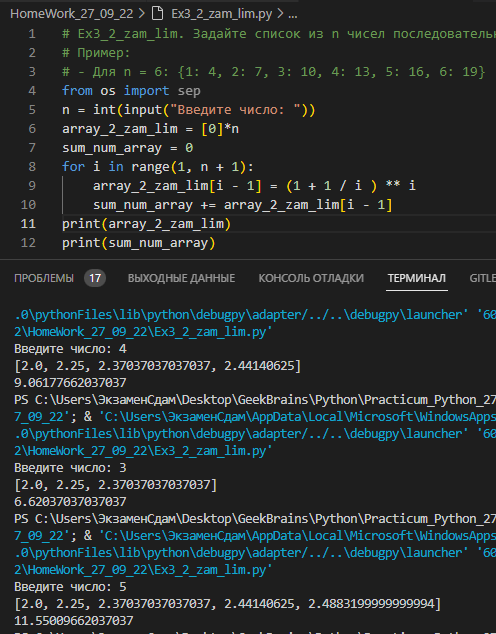
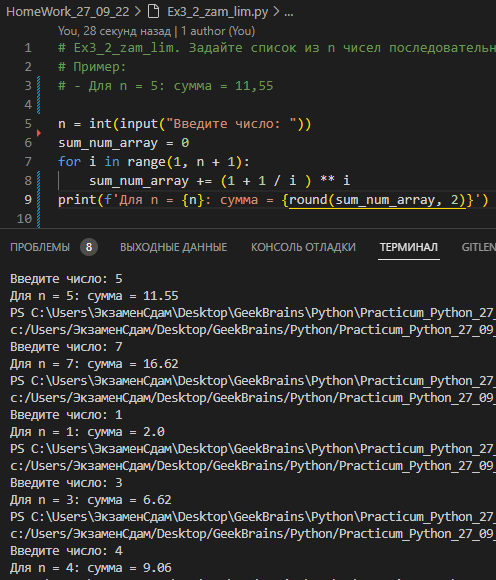
add Ex3

diff --git a/HomeWork_27_09_22/Ex3_2_zam_lim.py b/HomeWork_27_09_22/Ex3_2_zam_lim.py
@@ -1,12 +1,21 @@
 # Ex3_2_zam_lim. Задайте список из n чисел последовательности $(1+\frac 1 n)^n$ и выведите на экран их сумму.
 # Пример:
-# - Для n = 6: {1: 4, 2: 7, 3: 10, 4: 13, 5: 16, 6: 19}
-from os import sep
+# - Для n = 5: сумма = 11,55
+
 n = int(input("Введите число: "))
-array_2_zam_lim = [0]*n
 sum_num_array = 0
 for i in range(1, n + 1):
-    array_2_zam_lim[i - 1] = (1 + 1 / i ) ** i
-    sum_num_array += array_2_zam_lim[i - 1]
-print(array_2_zam_lim)
-print(sum_num_array)
+    sum_num_array += (1 + 1 / i ) ** i
+print(f'Для n = {n}: сумма = {round(sum_num_array, 2)}')
+
+
+
+# n = int(input("Введите число: "))
+# array_2_zam_lim = [0]*n
+# sum_num_array = 0
+# for i in range(1, n + 1):
+#     array_2_zam_lim[i - 1] = (1 + 1 / i ) ** i
+#     sum_num_array += array_2_zam_lim[i - 1]
+# print(array_2_zam_lim)
+# print(f'Для n = {n}: сумма = {sum_num_array}')
+

diff --git a/README.md b/README.md
@@ -37,7 +37,7 @@ Ex3. Напишите программу, которая принимает на
 
 Пример:
 
-- Для n = 6: {1: 4, 2: 7, 3: 10, 4: 13, 5: 16, 6: 19}
+Для n = 5: сумма = 11,55
 
 Выполнение программы:
 
